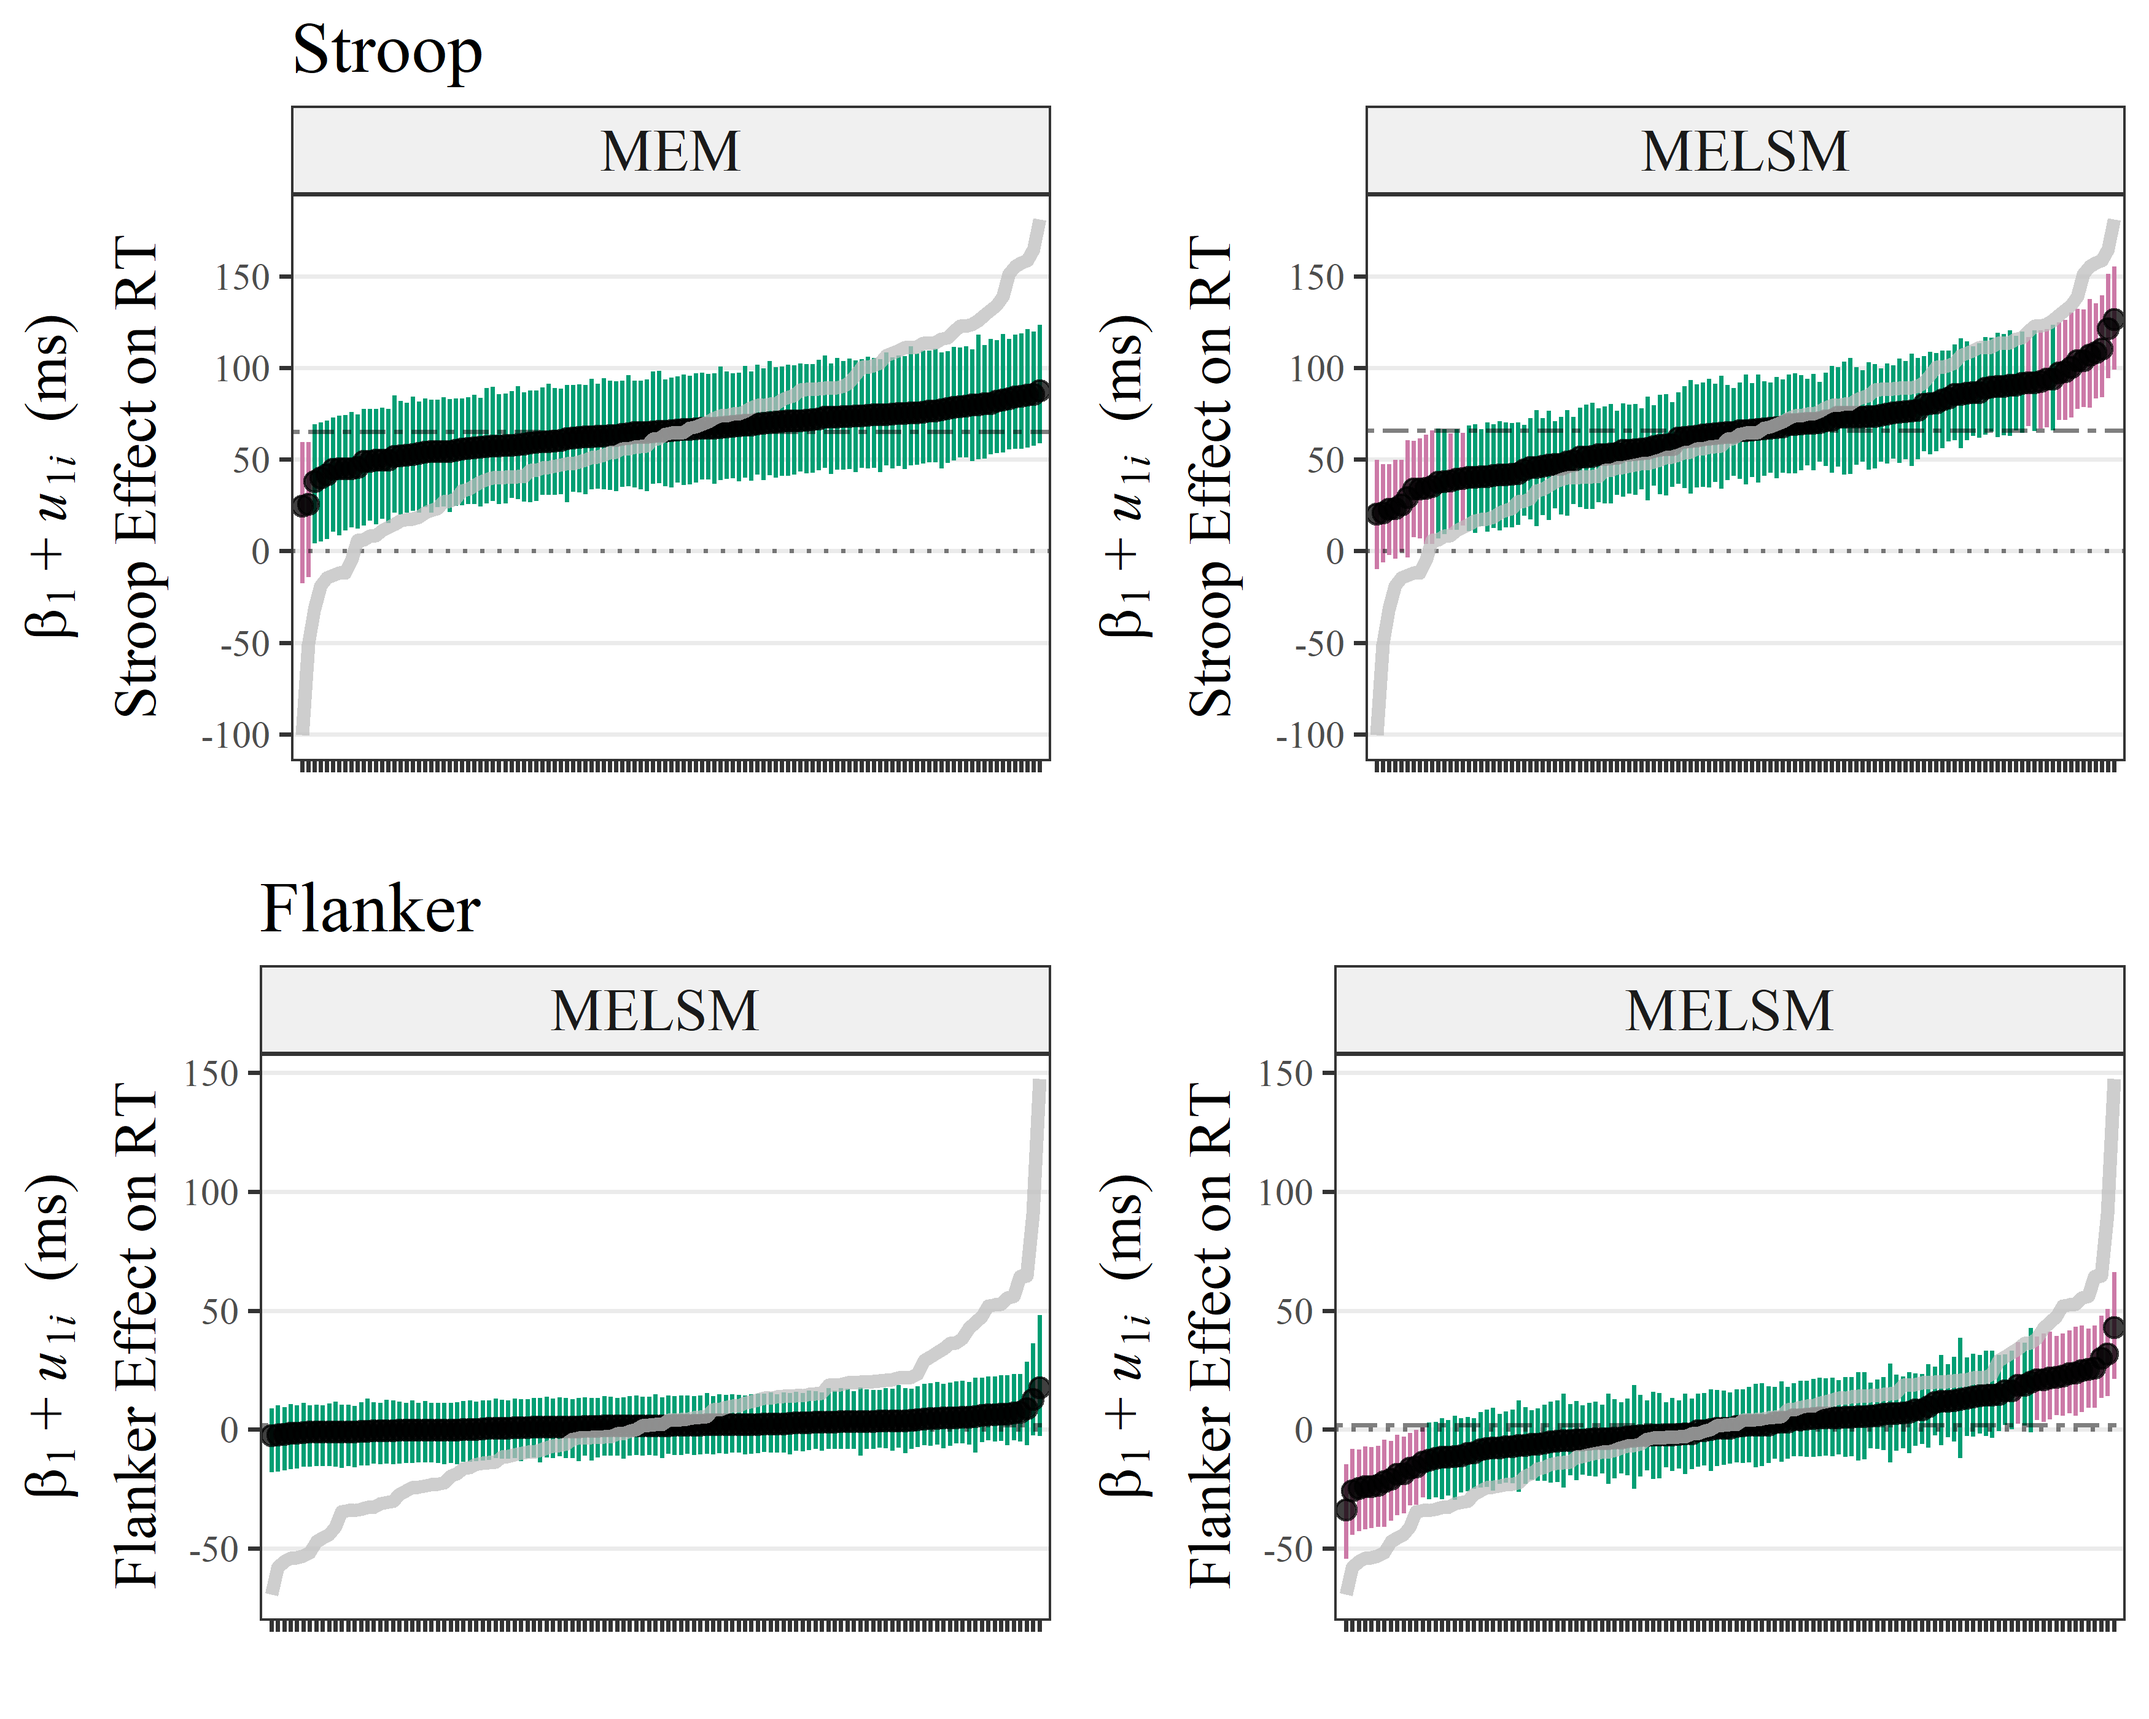
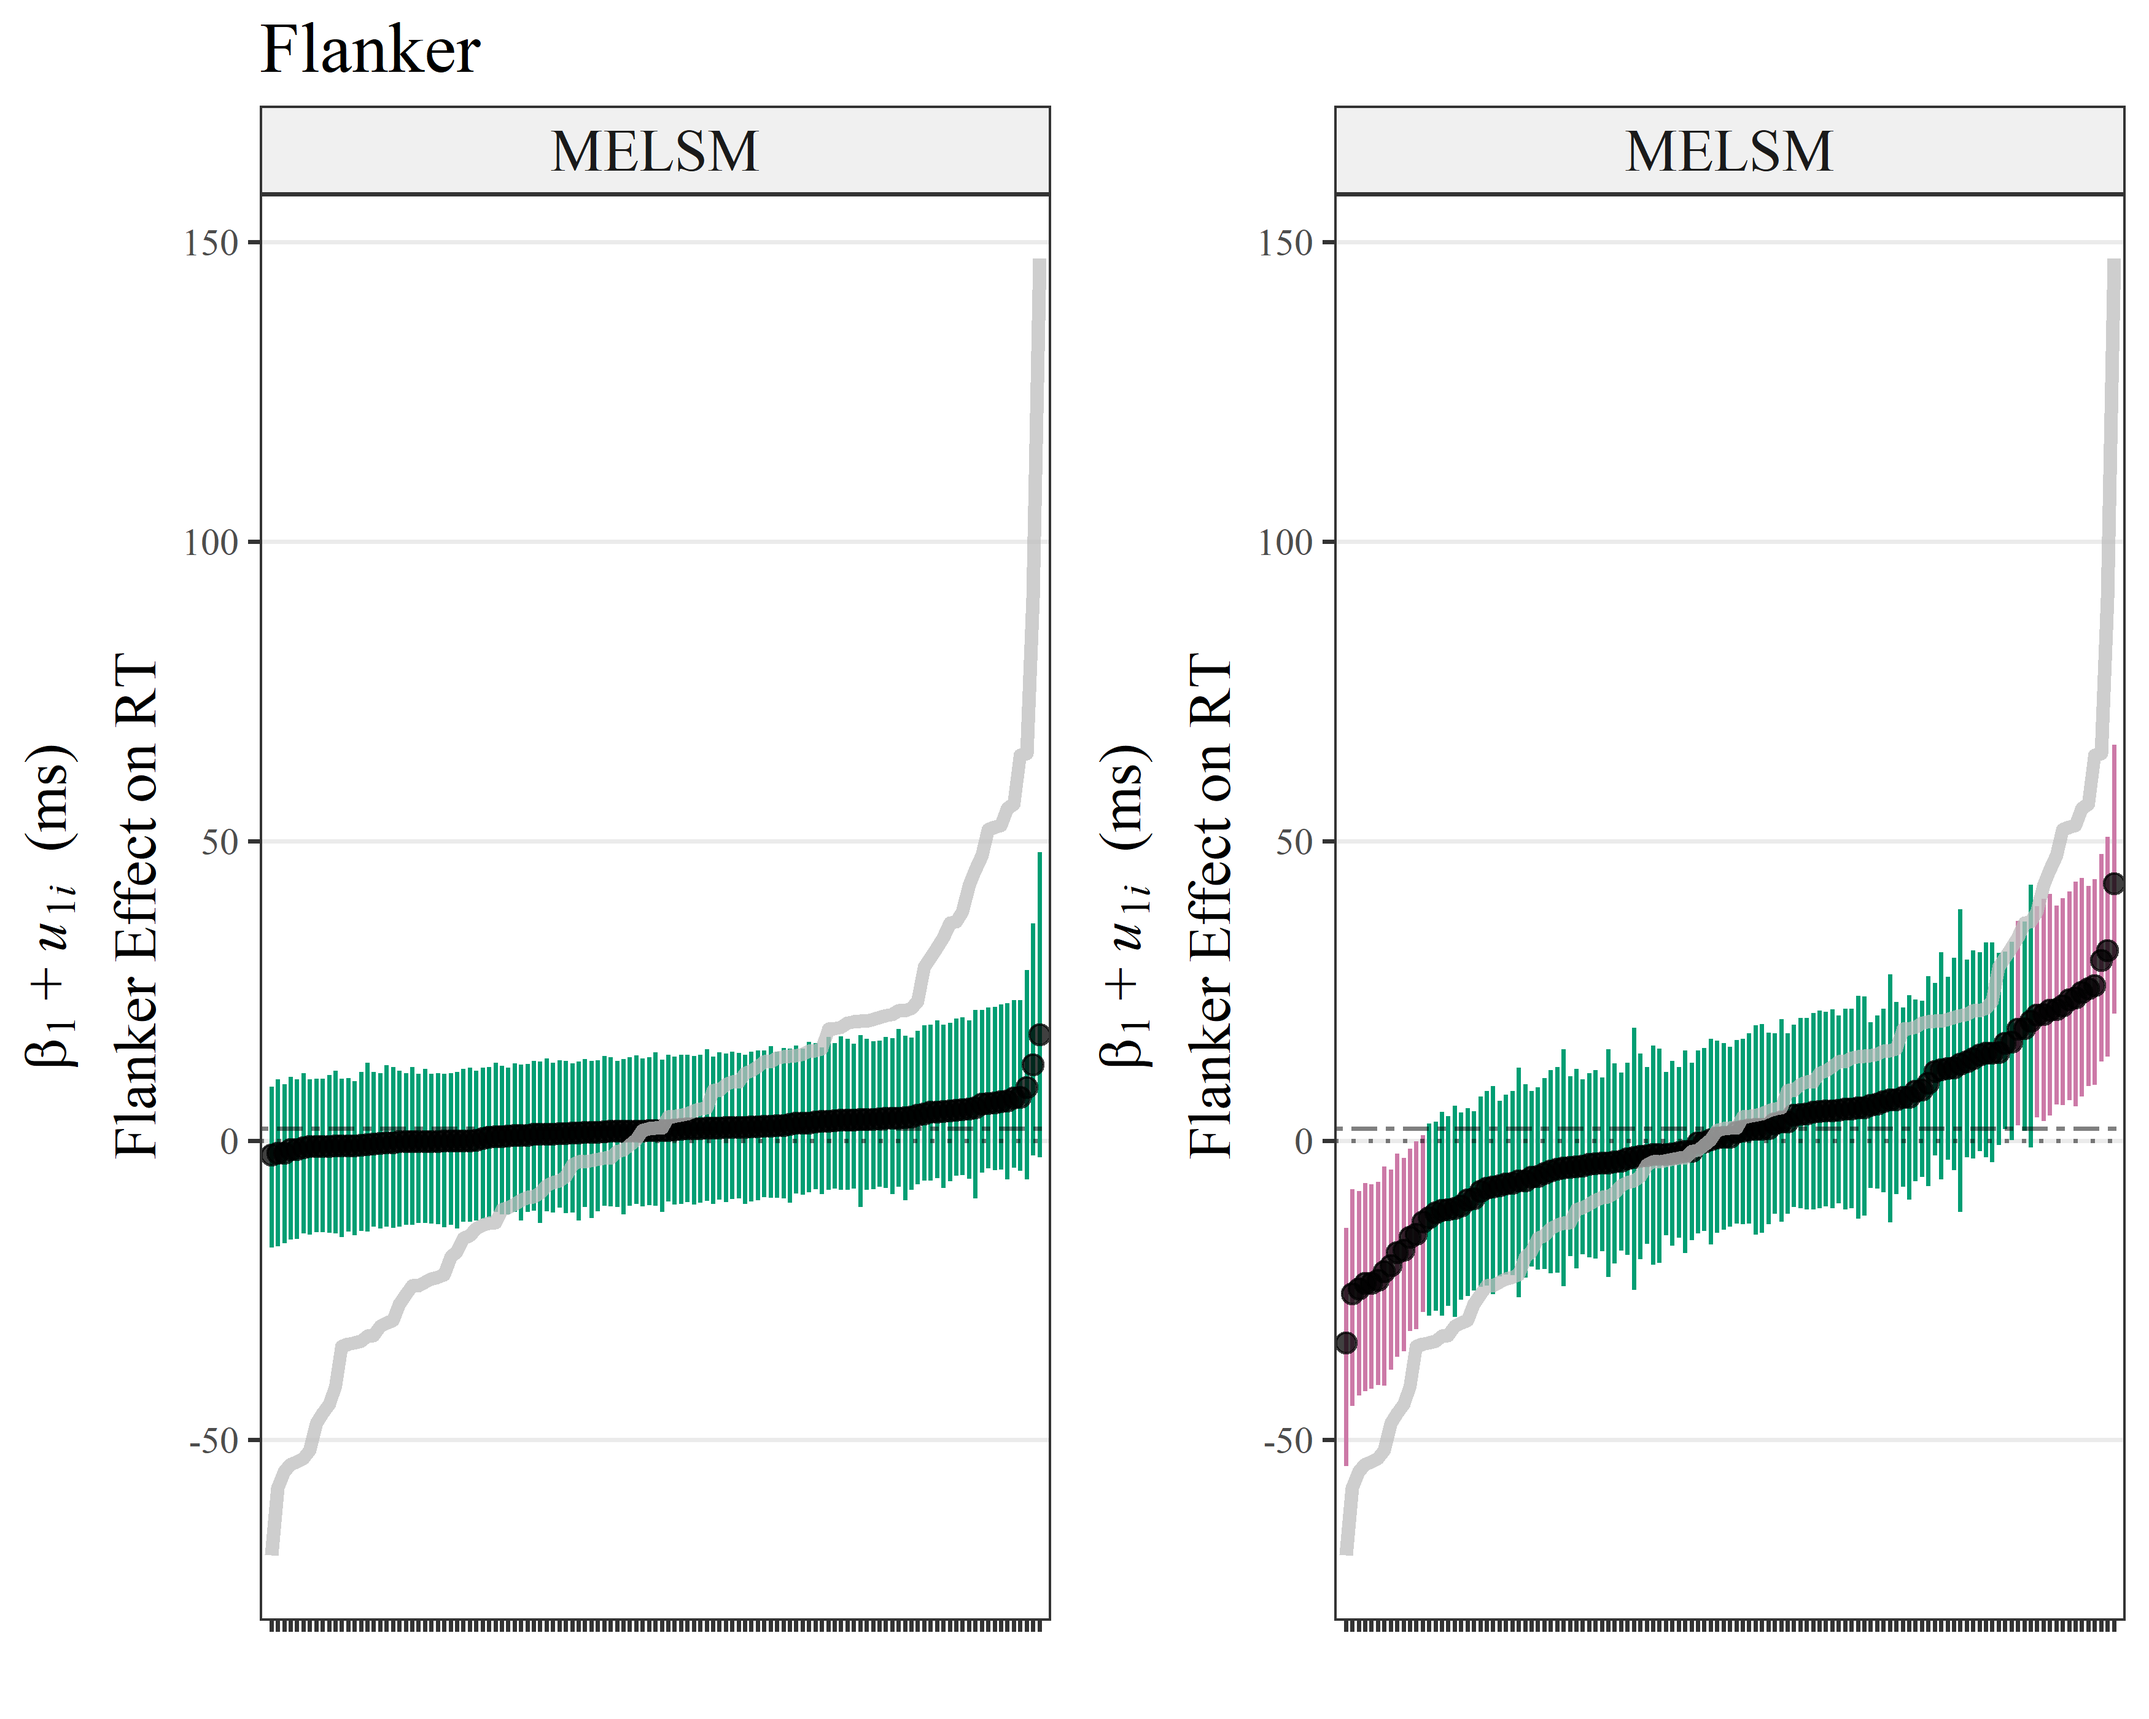
add plots

diff --git a/README.md b/README.md
@@ -884,7 +884,11 @@ Combine plots:
 
 ``` r
 plot_stroop <- plot_grid(me_stroop_plot, melsm_stroop_plot)
+
+plot_stroop
 ```
+
+<img src="figures/README-unnamed-chunk-26-1.png" width="80%" style="display: block; margin: auto;" />
 
 Next the Flanker task. The MELSM is plotted with:
 
@@ -1018,7 +1022,11 @@ plot_flanker <-  plot_grid(me_flanker_plot, melsm_flanker_plot)
 
 # panel A
 A <- plot_grid(plot_stroop, plot_flanker, nrow = 2)
+
+plot_flanker
 ```
+
+<img src="figures/README-unnamed-chunk-29-1.png" width="80%" style="display: block; margin: auto;" />
 
 The above is Panel A. Panel B highlights shrinkage from the Flanker model:
 
